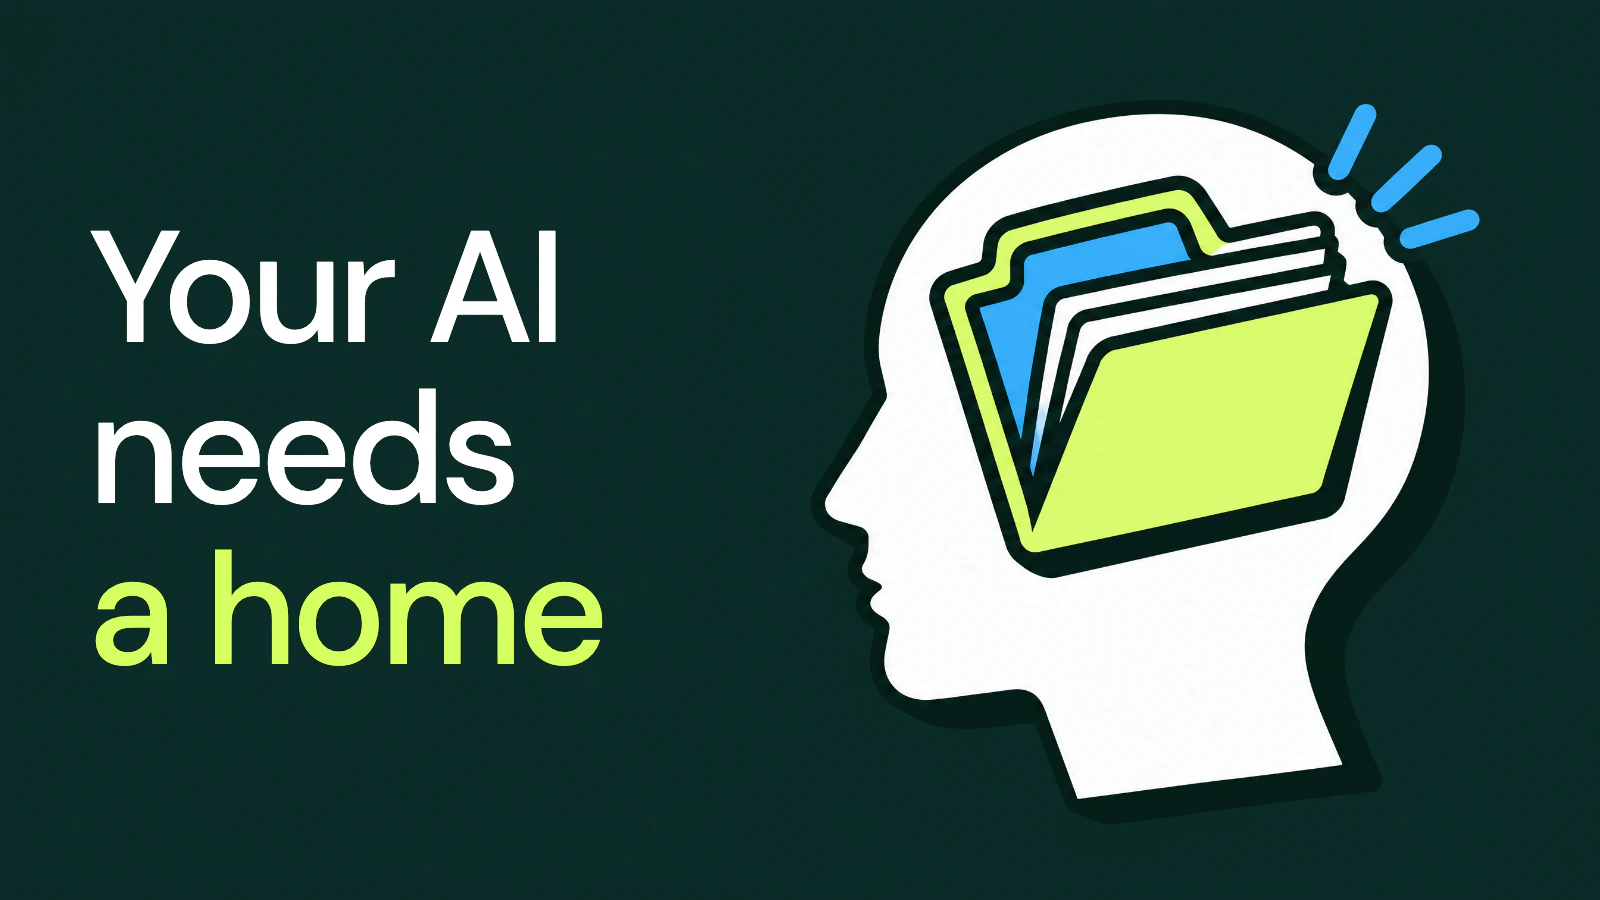
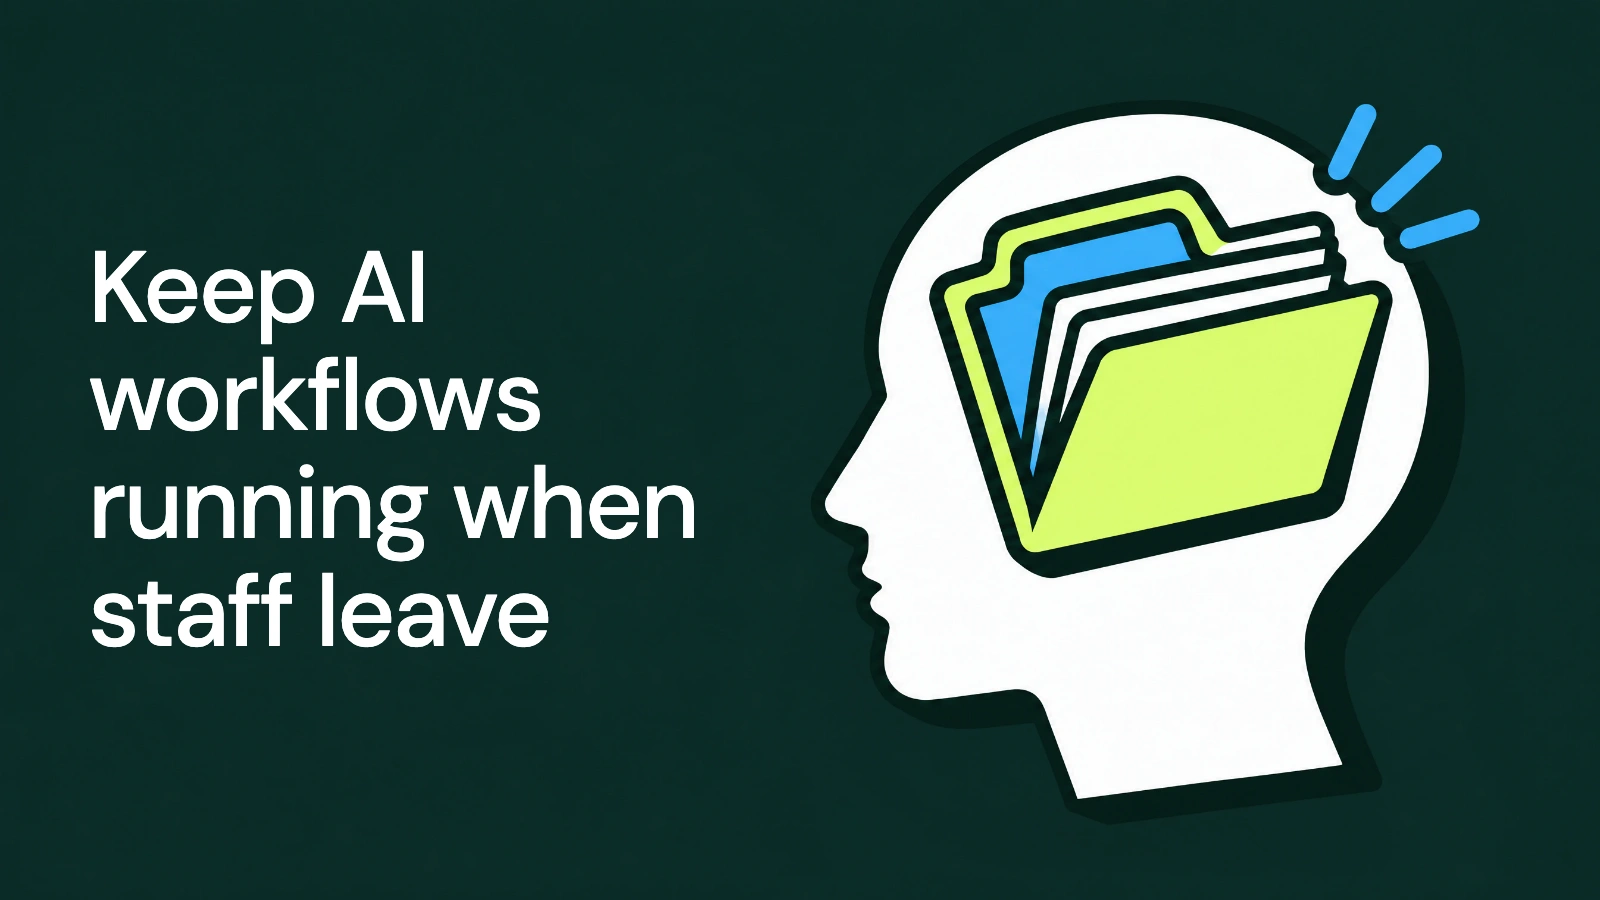
Publish reviewed AI workflow handoff article (#133)
* Publish reviewed AI workflow handoff article

* Link handoff guidance to related Recoup resources

Changed region(s): [[0.0312, 0.2489, 0.4375, 0.7467]]

diff --git a/content/STATUS.md b/content/STATUS.md
@@ -1,3 +1,7 @@
+## AI workflow handoff article — September 28, 2026
+
+Published the reviewed “Your AI lives in one person's head” revision at its existing URL, with active Recoup service framing, a catalog-report handoff example, and an inquiry CTA. Retained the reviewed cover and three inline illustrations. Original publication date preserved; modification date updated.
+
 ## Established methods in present tense — September 27, 2026
 
 Updated catalog-reporting copy and excerpt to describe Recoup’s working method in present tense. Preserved the illustrative numbers/output and review conditions. Reframed rollout advice as a recommendation, without claiming planned department work has happened.
